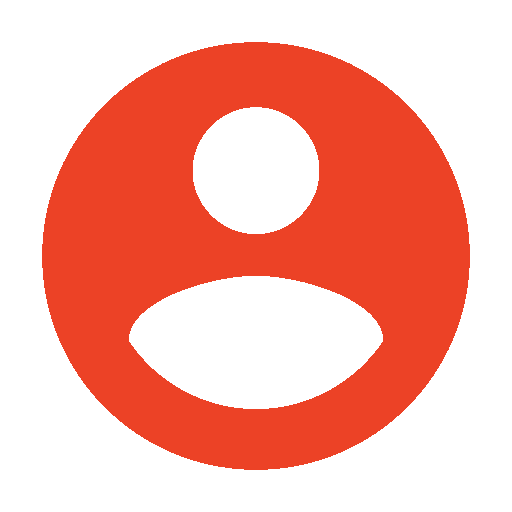
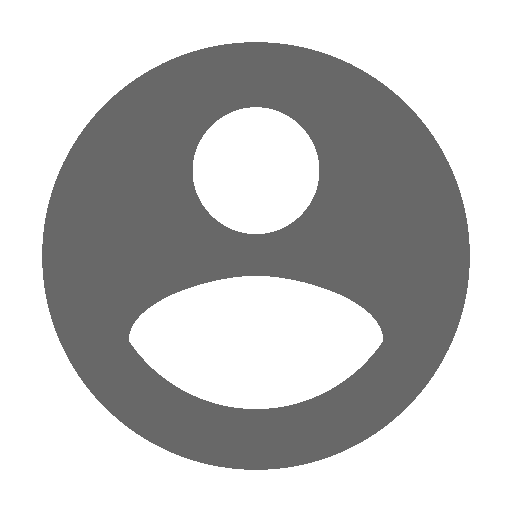
Remove unnecessary images

diff --git a/todo-app/src/Components/AuthAndSharing/SignedInStatus.js b/todo-app/src/Components/AuthAndSharing/SignedInStatus.js
@@ -1,5 +1,5 @@
 import { useState } from "react";
-import AccountIcon from "./../../images/account_icon_3.png"
+import AccountIcon from "./../../images/account_icon.png"
 import "./SignedInStatus.css";
 
 export default function SignedInStatus(props) {
